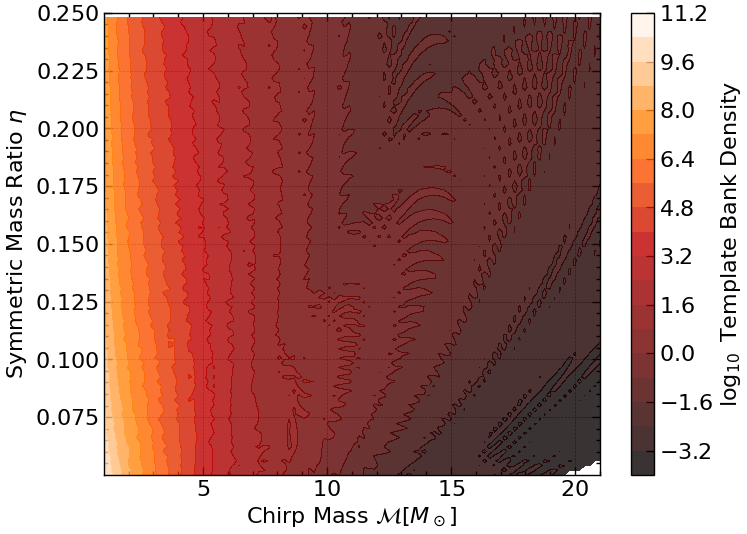
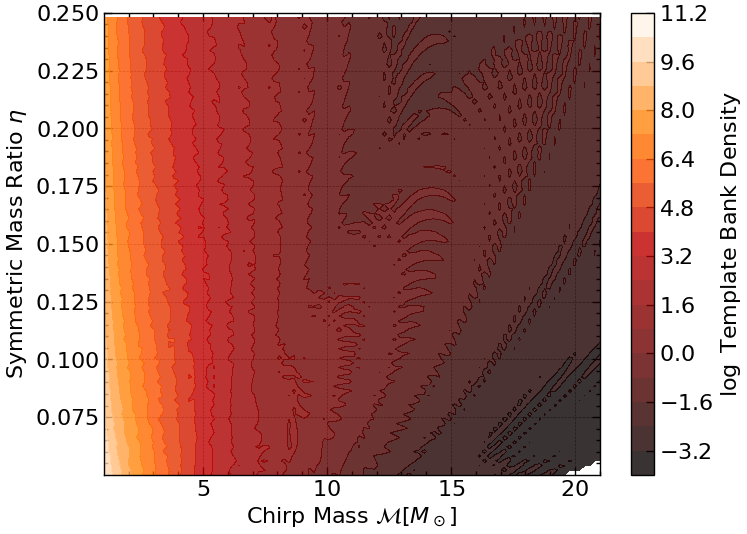
Training at epoch 0 cannot complete, check log

Changed region(s): [[0.9545, 0.1498, 1.0, 0.779]]

diff --git a/gw_sim.py b/gw_sim.py
@@ -254,16 +254,13 @@ def loss_fn(params: hk.Params, prng_key: PRNGKey, data_n: int) -> jnp.ndarray:
     # Local calculation resources
     x_flow, log_q = sample_and_log_prob.apply(params, prng_key, data_n)
     log_p = dist.log_prob(x_flow)
-    # Sanity check
-    print("type(log_p)", type(log_p))
-    print("type(log_q)", type(log_q))
     # Get the KL divergence as loss
     data_loss = jnp.mean(log_q - log_p)
     # Func return
     return data_loss
 
 
-# @jax.jit
+@jax.jit
 def update(
     params: hk.Params,
     prng_key: PRNGKey,
@@ -273,9 +270,11 @@ def update(
     Single SGD update step
     """
     grads = jax.grad(loss_fn)(params, prng_key, NUM_SAMPLES)
+    print("update() grad calculated")
     updates, new_opt_state = optimiser.update(grads, opt_state)
+    print("update() optimiser updated")
     new_params = optax.apply_updates(params, updates)
-    print("Update completed.")
+    print("update() new param updated")
     # Func return
     return new_params, new_opt_state
 
@@ -303,18 +302,24 @@ if __name__ == '__main__':
     NUM_BINS = 4
 
     # Perform variational inference
-    TOTAL_EPOCHS = 300 #reduce this for testing purpose, original val = 10000
-    NUM_SAMPLES = 100 #1000
-    LEARNING_RATE = 0.01 #0.001
+    TOTAL_EPOCHS = 10000 #reduce this for testing purpose, original val = 10000
+    NUM_SAMPLES = 1000 #1000
+    LEARNING_RATE = 0.001 #0.001
+    print("Main: Local param assigned")
 # =========================================================================== #
     # dist = BivariateVonMises(LOC, CONCENTRATION, CORRELATION)
     dist = TemplateDensity(PARAM_RIPPLE)
     optimiser = optax.adam(LEARNING_RATE)
-
-    test_param = jnp.ones((NUM_SAMPLES, 4))
-    print("test_param.shape", test_param.shape)
-    test_compile = gw_fim.log_density_plus(test_param)
-    print("test_compile.shape", test_compile.shape)
+    
+    # print()
+    # print("Test Compilation:")
+    # print("=" * 30)
+    # test_param = jnp.ones((NUM_SAMPLES, 4))
+    # print("test_param.shape", test_param.shape)
+    # test_compile = gw_fim.log_density_plus(test_param)
+    # print("test_compile.shape", test_compile.shape)
+    # print("=" * 30)
+    # print()
 
     prng_seq = hk.PRNGSequence(42)
     key = next(prng_seq)
@@ -325,14 +330,21 @@ if __name__ == '__main__':
     ldict = {"loss": 0}
     losses = []
     flows = []
+
+    print()
+    print("Training: Initiated")
+    print("=" * 30)
     with trange(TOTAL_EPOCHS) as tepochs:
         for epoch in tepochs:
             data_prng_key = next(prng_seq)
             loss = loss_fn(data_param, data_prng_key, NUM_SAMPLES)
+            print(f"Training {epoch}: loss_fn() complete")
             ldict['loss'] = f'{loss:.2f}'
             losses.append(loss)
+            print(f"Training {epoch}: losses append complete")
             tepochs.set_postfix(ldict, refresh=True)
             data_param, data_opt_state = update(data_param, data_prng_key, data_opt_state)
+            print(f"Training {epoch}: update() complete")
             # Results
             if epoch%100 == 0:
                 x_gen, log_prob_gen = sample_and_log_prob.apply(
@@ -345,7 +357,9 @@ if __name__ == '__main__':
                 # Print results
                 print(f'At epoch: {epoch}, with loss: {loss}')
     # Print if complete
-    print("Accomplished.")
+    print("Training accomplished.")
+    print("=" * 30)
+    print()
 
     # Save plot of the final posterior
     x_gen, log_prob_gen = sample_and_log_prob.apply(

diff --git a/data/gw_fim.py b/data/gw_fim.py
@@ -37,6 +37,16 @@ def fim_param_build(mcs: jnp.ndarray, etas: jnp.ndarray):
 # FIM mapped
 
 
+@jax.jit
+def map_density_plus(param: jnp.ndarray):
+    return jax.vmap(log_sqrt_det_plus)(param)
+
+
+@jax.jit
+def map_density_cros(param: jnp.ndarray):
+    return jax.vmap(log_sqrt_det_cros)(param)
+
+
 # @jax.jit
 def log_density_plus(param: jnp.ndarray):
     """
@@ -44,21 +54,18 @@ def log_density_plus(param: jnp.ndarray):
     """
     # Local resources
     num_param = param.shape[0]
-    batch_size = int(num_param * 0.5)
+    batch_size = int(num_param * 0.1)
     num_batch = num_param // batch_size
     # Init
     density_list = []
-    with trange(param.shape[0], desc="Processing Params") as param_range:
-        # Batching
-        for i in trange(num_batch):
-            # Split batches
-            batch_fim_param = param[i * batch_size: (i + 1) * batch_size]
-            # Call jax.vmap
-            batch_density = jax.vmap(log_sqrt_det_plus)(batch_fim_param)
-            # Add to results
-            density_list.append(batch_density)
-            # Update progress bar
-            param_range.update(batch_fim_param.shape[0])
+    # Batching
+    for i in range(num_batch):
+        # Split batches
+        batch_fim_param = param[i * batch_size: (i + 1) * batch_size]
+        # Call jax.vmap
+        batch_density = map_density_plus(batch_fim_param)
+        # Add to results
+        density_list.append(batch_density)
     # Concatenate the results from smaller batches
     density = jnp.concatenate(density_list)
     return density
@@ -71,21 +78,18 @@ def log_density_cros(param: jnp.ndarray):
     """
     # Local resources
     num_param = param.shape[0]
-    batch_size = int(num_param * 0.5)
+    batch_size = int(num_param * 0.1)
     num_batch = num_param // batch_size
     # Init
     density_list = []
-    with trange(num_param, desc="Processing Params") as param_range:
-        # Batching
-        for i in trange(num_batch):
-            # Split batches
-            batch_fim_param = param[i * batch_size: (i + 1) * batch_size]
-            # Call jax.vmap
-            batch_density = jax.vmap(log_sqrt_det_cros)(batch_fim_param)
-            # Add to results
-            density_list.append(batch_density)
-            # Update progress bar
-            param_range.update(batch_fim_param.shape[0])
+    # Batching
+    for i in range(num_batch):
+        # Split batches
+        batch_fim_param = param[i * batch_size: (i + 1) * batch_size]
+        # Call jax.vmap
+        batch_density = map_density_cros(batch_fim_param)
+        # Add to results
+        density_list.append(batch_density)
     # Concatenate the results from smaller batches
     density = jnp.concatenate(density_list)
     return density

diff --git a/data/gw_plt.py b/data/gw_plt.py
@@ -21,16 +21,16 @@ def log_fim_contour(
     waveform: str = 'hp',
 ):
     """
-    Generate contourf plots for log10-based density wrt mc, eta
+    Generate contourf plots for log density wrt mc, eta
     Defaulted at waveform hp results
     """
     # Local plotter resources
     xlabel, ylabel, cblabel = (
         r'Chirp Mass $\mathcal{M} [M_\odot$]',
         r'Symmetric Mass Ratio $\eta$',
-        r'$\log_{10}$ Template Bank Density',
+        r'$\log$ Template Bank Density',
     )
-    save_path = './figures/log_fim_contour_' + waveform + '.png'
+    save_path = f'./figures/log_fim_contour_{waveform}.png'
     # Plot init
     fig, ax = plt.subplots(figsize=(8, 6))
     # Plotter
@@ -49,6 +49,42 @@ def log_fim_contour(
     # Plot admin
     fig.savefig(save_path)
 
+
+def log_fim_param(
+    data_x: jnp.ndarray,
+    data_y: jnp.ndarray,
+    waveform: str = "hp",
+    param: str = "mc",
+):
+    """
+    1-D param plot for log density wrt param entry
+    """
+    # Local plotter resources
+    xlabel_dict = {
+        'mc': r'Chirp Mass $\mathcal{M} [M_\odot$]',
+        'eta': r'Symmetric Mass Ratio $\eta$',
+    }
+    ylabel = r'$\log$ Template Bank Density'
+    save_path = f'./figures/log_fim_param_{param}_{waveform}.png'
+    # Plot init
+    fig, ax = plt.subplots(figsize=(8, 6))
+    # Plotter
+    plot = [
+        ax.scatter(
+            data_x,
+            data_y[:, i],
+            alpha=0.8,
+            s=1,
+            cmap='gist_heat',
+            c=data_y[:, i],
+        )
+        for i in range(int(data_y.shape[0]))
+    ]
+    # Plot customization
+    ax.set(xlabel=xlabel_dict[param], ylabel=ylabel)
+    fig.tight_layout()
+    # Plot admin
+    fig.savefig(save_path)
 
 # Waveform and gradient
 
@@ -77,7 +113,7 @@ def ripple_waveform(
             r'Freqency $f$ [Hz]',
             r'Signal Strain $h_\times$',
         )
-    save_path = './figures/ripple_' + waveform + '.png'
+    save_path = f'./figures/ripple_{waveform}.png'
     # Plot init
     fig, ax = plt.subplots(figsize=(8, 6))
     # Plotter
@@ -126,7 +162,7 @@ def ripple_gradient(
         f"{label_dict['freq']}",
         f"{label_dict['grad']}{label_dict[param]}",
     )
-    save_path = './figures/ripple' + param + '.png'
+    save_path = f'./figures/ripple_{param}.png'
     # Plot init
     fig, ax = plt.subplots(figsize=(8, 6))
     # Plotter

diff --git a/main.py b/main.py
@@ -35,14 +35,14 @@ cc.initialize_cache("./data/__jaxcache__")
 
 # %%
 # FIM density calc params
-# Cached shape - (100, 100, 1, 1)
+# Cached shape - (10000, 4)
 fim_param = gw_fim.fim_param_build(mcs, etas)
 print(f"fim_param.shape:{fim_param.shape}")
 
 # %%
 # New compilation
-density_p = gw_fim.log_density_plus(fim_param)
-density_c = gw_fim.log_density_cros(fim_param)
+density_p = gw_fim.log_density_plus(fim_param).reshape([len(mcs), len(etas)])
+density_c = gw_fim.log_density_cros(fim_param).reshape([len(mcs), len(etas)])
 
 # %%
 # Density matrix batching
@@ -64,5 +64,9 @@ density_c = gw_fim.log_density_cros(fim_param)
 # gw_plt.bilby_noise_psd(f_sig, f_psd)
 gw_plt.log_fim_contour(mcs, etas, density_p, waveform="hp")
 gw_plt.log_fim_contour(mcs, etas, density_c, waveform="hc")
+gw_plt.log_fim_param(mcs, density_p, waveform= "hp",param= "mc")
+gw_plt.log_fim_param(etas, density_p, waveform= "hp",param= "eta")
+gw_plt.log_fim_param(mcs, density_c, waveform= "hc",param= "mc")
+gw_plt.log_fim_param(etas, density_c, waveform= "hc",param= "eta")
 
 # %%

diff --git a/test.py b/test.py
@@ -6,12 +6,7 @@ from data import gw_fim, gw_rpl
 data_mc = jnp.linspace(1, 21, 1000)
 data_eta = jnp.linspace(0.05, 0.25, 1000)
 
-# Get results
-data_tc = 0.0*jnp.ones_like(data_mc)
-data_phic = 0.0*jnp.ones_like(data_mc)
-# Param build with shape (n, 4)
-param = jnp.column_stack((data_mc, data_eta, data_tc, data_phic))
-
-num_batch = int(param.shape[0] // (param.shape[0]/10))
+res = jnp.mean(data_mc-data_eta)
+res.shape
 
 # %%
